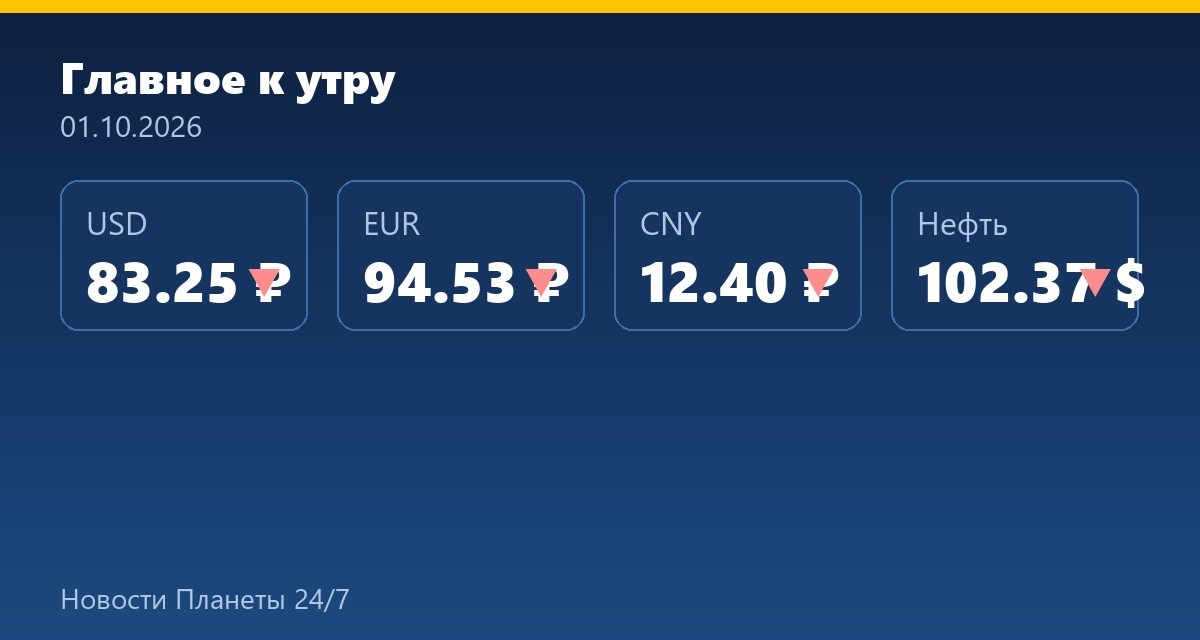
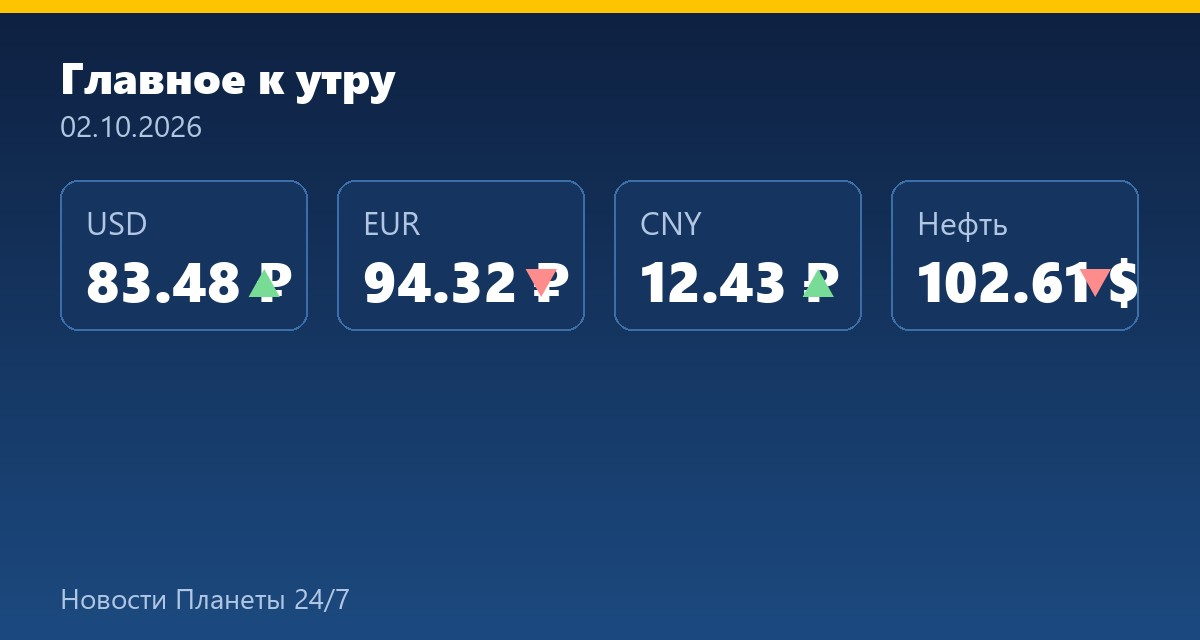
Обновление сайта: 62 файлов

diff --git a/p/49.html b/p/49.html
@@ -1,0 +1,43 @@
+<!DOCTYPE html>
+<html lang="ru">
+<head>
+<meta charset="utf-8">
+<meta name="viewport" content="width=device-width, initial-scale=1">
+<title>Песков заявил об открытости России к диалогу по безопасности в Черном море</title>
+<meta name="description" content="Политика: Песков заявил об открытости России к диалогу по безопасности в Черном море">
+<link rel="canonical" href="https://Raezed.github.io/news/p/49.html">
+<meta property="og:type" content="article">
+<meta property="og:site_name" content="Новости Планеты 24/7">
+<meta property="og:title" content="Песков заявил об открытости России к диалогу по безопасности в Черном море">
+<meta property="og:description" content="Политика: Песков заявил об открытости России к диалогу по безопасности в Черном море">
+<meta property="og:url" content="https://Raezed.github.io/news/p/49.html">
+<meta property="og:image" content="https://Raezed.github.io/news/img/share.jpg">
+<meta name="twitter:image" content="https://Raezed.github.io/news/img/share.jpg">
+<meta name="twitter:card" content="summary_large_image">
+<meta name="twitter:title" content="Песков заявил об открытости России к диалогу по безопасности в Черном море">
+<meta name="twitter:description" content="Политика: Песков заявил об открытости России к диалогу по безопасности в Черном море">
+<link rel="stylesheet" href="/news/style.css">
+<link rel="alternate" type="application/rss+xml" title="Новости Планеты 24/7" href="/news/feed.xml">
+<script type="application/ld+json">{"@context": "https://schema.org", "@type": "NewsArticle", "headline": "Песков заявил об открытости России к диалогу по безопасности в Черном море", "description": "Политика: Песков заявил об открытости России к диалогу по безопасности в Черном море", "inLanguage": "ru", "url": "https://Raezed.github.io/news/p/49.html", "publisher": {"@type": "Organization", "name": "Новости Планеты 24/7"}}</script>
+</head>
+<body>
+<header><div class="wrap">
+<div class="tag">Новости, объяснённые по-человечески</div>
+<h1>Новости Планеты 24/7</h1>
+<p class="sub">Сообщаем не только что случилось, но и что это меняет лично для вас: цены, работа, выплаты, поездки, документы.</p>
+<a class="cta" href="https://t.me/WestiNewMir24">Подписаться в Telegram</a>
+</div></header>
+<main class="wrap">
+<article>
+<div class="meta">2026-10-02 · <span class="topic">Политика</span> · Коммерсантъ</div>
+<h2 style="margin:0 0 10px">Песков заявил об открытости России к диалогу по безопасности в Черном море</h2>
+<div class="text"><p>Россия открыта для диалога по обеспечению безопасности в Черном море со всеми странами, заявил «Интерфаксу» пресс-секретарь президента Дмитрий Песков. Однако, по его словам, конкретные двусторонние соглашения пока не обсуждаются.</p><p>🔗 <a href="https://www.kommersant.ru/doc/9005220">Коммерсантъ</a></p><p>#Политика</p></div>
+<p><a href="https://www.kommersant.ru/doc/9005220">Читать первоисточник</a></p>
+<div class="share"><span>Поделиться:</span><a href="https://t.me/share/url?url=https%3A%2F%2FRaezed.github.io%2Fnews%2Fp%2F49.html&text=%D0%9F%D0%B5%D1%81%D0%BA%D0%BE%D0%B2%20%D0%B7%D0%B0%D1%8F%D0%B2%D0%B8%D0%BB%20%D0%BE%D0%B1%20%D0%BE%D1%82%D0%BA%D1%80%D1%8B%D1%82%D0%BE%D1%81%D1%82%D0%B8%20%D0%A0%D0%BE%D1%81%D1%81%D0%B8%D0%B8%20%D0%BA%20%D0%B4%D0%B8%D0%B0%D0%BB%D0%BE%D0%B3%D1%83%20%D0%BF%D0%BE%20%D0%B1%D0%B5%D0%B7%D0%BE%D0%BF%D0%B0%D1%81%D0%BD%D0%BE%D1%81%D1%82%D0%B8%20%D0%B2%20%D0%A7%D0%B5%D1%80%D0%BD%D0%BE%D0%BC%20%D0%BC%D0%BE%D1%80%D0%B5" target="_blank" rel="noopener">Telegram</a><a href="https://vk.com/share.php?url=https%3A%2F%2FRaezed.github.io%2Fnews%2Fp%2F49.html&title=%D0%9F%D0%B5%D1%81%D0%BA%D0%BE%D0%B2%20%D0%B7%D0%B0%D1%8F%D0%B2%D0%B8%D0%BB%20%D0%BE%D0%B1%20%D0%BE%D1%82%D0%BA%D1%80%D1%8B%D1%82%D0%BE%D1%81%D1%82%D0%B8%20%D0%A0%D0%BE%D1%81%D1%81%D0%B8%D0%B8%20%D0%BA%20%D0%B4%D0%B8%D0%B0%D0%BB%D0%BE%D0%B3%D1%83%20%D0%BF%D0%BE%20%D0%B1%D0%B5%D0%B7%D0%BE%D0%BF%D0%B0%D1%81%D0%BD%D0%BE%D1%81%D1%82%D0%B8%20%D0%B2%20%D0%A7%D0%B5%D1%80%D0%BD%D0%BE%D0%BC%20%D0%BC%D0%BE%D1%80%D0%B5" target="_blank" rel="noopener">ВКонтакте</a><a href="https://connect.ok.ru/offer?url=https%3A%2F%2FRaezed.github.io%2Fnews%2Fp%2F49.html&title=%D0%9F%D0%B5%D1%81%D0%BA%D0%BE%D0%B2%20%D0%B7%D0%B0%D1%8F%D0%B2%D0%B8%D0%BB%20%D0%BE%D0%B1%20%D0%BE%D1%82%D0%BA%D1%80%D1%8B%D1%82%D0%BE%D1%81%D1%82%D0%B8%20%D0%A0%D0%BE%D1%81%D1%81%D0%B8%D0%B8%20%D0%BA%20%D0%B4%D0%B8%D0%B0%D0%BB%D0%BE%D0%B3%D1%83%20%D0%BF%D0%BE%20%D0%B1%D0%B5%D0%B7%D0%BE%D0%BF%D0%B0%D1%81%D0%BD%D0%BE%D1%81%D1%82%D0%B8%20%D0%B2%20%D0%A7%D0%B5%D1%80%D0%BD%D0%BE%D0%BC%20%D0%BC%D0%BE%D1%80%D0%B5" target="_blank" rel="noopener">Одноклассники</a><a href="https://api.whatsapp.com/send?text=%D0%9F%D0%B5%D1%81%D0%BA%D0%BE%D0%B2%20%D0%B7%D0%B0%D1%8F%D0%B2%D0%B8%D0%BB%20%D0%BE%D0%B1%20%D0%BE%D1%82%D0%BA%D1%80%D1%8B%D1%82%D0%BE%D1%81%D1%82%D0%B8%20%D0%A0%D0%BE%D1%81%D1%81%D0%B8%D0%B8%20%D0%BA%20%D0%B4%D0%B8%D0%B0%D0%BB%D0%BE%D0%B3%D1%83%20%D0%BF%D0%BE%20%D0%B1%D0%B5%D0%B7%D0%BE%D0%BF%D0%B0%D1%81%D0%BD%D0%BE%D1%81%D1%82%D0%B8%20%D0%B2%20%D0%A7%D0%B5%D1%80%D0%BD%D0%BE%D0%BC%20%D0%BC%D0%BE%D1%80%D0%B5%20https%3A%2F%2FRaezed.github.io%2Fnews%2Fp%2F49.html" target="_blank" rel="noopener">WhatsApp</a></div>
+<div class="subscribe"><b>Мы пишем так каждый день</b><p>Объясняем не только что случилось, но и что это меняет лично для вас: цены, работу, выплаты, поездки, документы.</p><a class="cta" href="https://t.me/WestiNewMir24">Подписаться в Telegram</a> <a class="cta ghost" href="https://t.me/WestiNewMir24/49">Обсудить этот пост</a></div>
+<p><a href="/news/">← Все новости</a></p>
+</article>
+</main>
+<footer>© 2026 Новости Планеты 24/7 · <a href="https://t.me/WestiNewMir24">Telegram-канал</a></footer>
+</body>
+</html>

diff --git a/p/51.html b/p/51.html
@@ -1,0 +1,43 @@
+<!DOCTYPE html>
+<html lang="ru">
+<head>
+<meta charset="utf-8">
+<meta name="viewport" content="width=device-width, initial-scale=1">
+<title>Кравцов назвал главный педагогический вызов при использовании ИИ в школах</title>
+<meta name="description" content="Экономика: Кравцов назвал главный педагогический вызов при использовании ИИ в школах">
+<link rel="canonical" href="https://Raezed.github.io/news/p/51.html">
+<meta property="og:type" content="article">
+<meta property="og:site_name" content="Новости Планеты 24/7">
+<meta property="og:title" content="Кравцов назвал главный педагогический вызов при использовании ИИ в школах">
+<meta property="og:description" content="Экономика: Кравцов назвал главный педагогический вызов при использовании ИИ в школах">
+<meta property="og:url" content="https://Raezed.github.io/news/p/51.html">
+<meta property="og:image" content="https://Raezed.github.io/news/img/share.jpg">
+<meta name="twitter:image" content="https://Raezed.github.io/news/img/share.jpg">
+<meta name="twitter:card" content="summary_large_image">
+<meta name="twitter:title" content="Кравцов назвал главный педагогический вызов при использовании ИИ в школах">
+<meta name="twitter:description" content="Экономика: Кравцов назвал главный педагогический вызов при использовании ИИ в школах">
+<link rel="stylesheet" href="/news/style.css">
+<link rel="alternate" type="application/rss+xml" title="Новости Планеты 24/7" href="/news/feed.xml">
+<script type="application/ld+json">{"@context": "https://schema.org", "@type": "NewsArticle", "headline": "Кравцов назвал главный педагогический вызов при использовании ИИ в школах", "description": "Экономика: Кравцов назвал главный педагогический вызов при использовании ИИ в школах", "inLanguage": "ru", "url": "https://Raezed.github.io/news/p/51.html", "publisher": {"@type": "Organization", "name": "Новости Планеты 24/7"}}</script>
+</head>
+<body>
+<header><div class="wrap">
+<div class="tag">Новости, объяснённые по-человечески</div>
+<h1>Новости Планеты 24/7</h1>
+<p class="sub">Сообщаем не только что случилось, но и что это меняет лично для вас: цены, работа, выплаты, поездки, документы.</p>
+<a class="cta" href="https://t.me/WestiNewMir24">Подписаться в Telegram</a>
+</div></header>
+<main class="wrap">
+<article>
+<div class="meta">2026-10-02 · <span class="topic">Экономика</span> · ТАСС</div>
+<h2 style="margin:0 0 10px">Кравцов назвал главный педагогический вызов при использовании ИИ в школах</h2>
+<div class="text"><p>Важно оценивать не только готовый ответ, но и то, как обучающийся рассуждает, проверяет информацию и обосновывает выводы, отметил министр просвещения</p><p>🔗 <a href="https://tass.ru/obschestvo/28177345">ТАСС</a></p><p>#Экономика</p></div>
+<p><a href="https://tass.ru/obschestvo/28177345">Читать первоисточник</a></p>
+<div class="share"><span>Поделиться:</span><a href="https://t.me/share/url?url=https%3A%2F%2FRaezed.github.io%2Fnews%2Fp%2F51.html&text=%D0%9A%D1%80%D0%B0%D0%B2%D1%86%D0%BE%D0%B2%20%D0%BD%D0%B0%D0%B7%D0%B2%D0%B0%D0%BB%20%D0%B3%D0%BB%D0%B0%D0%B2%D0%BD%D1%8B%D0%B9%20%D0%BF%D0%B5%D0%B4%D0%B0%D0%B3%D0%BE%D0%B3%D0%B8%D1%87%D0%B5%D1%81%D0%BA%D0%B8%D0%B9%20%D0%B2%D1%8B%D0%B7%D0%BE%D0%B2%20%D0%BF%D1%80%D0%B8%20%D0%B8%D1%81%D0%BF%D0%BE%D0%BB%D1%8C%D0%B7%D0%BE%D0%B2%D0%B0%D0%BD%D0%B8%D0%B8%20%D0%98%D0%98%20%D0%B2%20%D1%88%D0%BA%D0%BE%D0%BB%D0%B0%D1%85" target="_blank" rel="noopener">Telegram</a><a href="https://vk.com/share.php?url=https%3A%2F%2FRaezed.github.io%2Fnews%2Fp%2F51.html&title=%D0%9A%D1%80%D0%B0%D0%B2%D1%86%D0%BE%D0%B2%20%D0%BD%D0%B0%D0%B7%D0%B2%D0%B0%D0%BB%20%D0%B3%D0%BB%D0%B0%D0%B2%D0%BD%D1%8B%D0%B9%20%D0%BF%D0%B5%D0%B4%D0%B0%D0%B3%D0%BE%D0%B3%D0%B8%D1%87%D0%B5%D1%81%D0%BA%D0%B8%D0%B9%20%D0%B2%D1%8B%D0%B7%D0%BE%D0%B2%20%D0%BF%D1%80%D0%B8%20%D0%B8%D1%81%D0%BF%D0%BE%D0%BB%D1%8C%D0%B7%D0%BE%D0%B2%D0%B0%D0%BD%D0%B8%D0%B8%20%D0%98%D0%98%20%D0%B2%20%D1%88%D0%BA%D0%BE%D0%BB%D0%B0%D1%85" target="_blank" rel="noopener">ВКонтакте</a><a href="https://connect.ok.ru/offer?url=https%3A%2F%2FRaezed.github.io%2Fnews%2Fp%2F51.html&title=%D0%9A%D1%80%D0%B0%D0%B2%D1%86%D0%BE%D0%B2%20%D0%BD%D0%B0%D0%B7%D0%B2%D0%B0%D0%BB%20%D0%B3%D0%BB%D0%B0%D0%B2%D0%BD%D1%8B%D0%B9%20%D0%BF%D0%B5%D0%B4%D0%B0%D0%B3%D0%BE%D0%B3%D0%B8%D1%87%D0%B5%D1%81%D0%BA%D0%B8%D0%B9%20%D0%B2%D1%8B%D0%B7%D0%BE%D0%B2%20%D0%BF%D1%80%D0%B8%20%D0%B8%D1%81%D0%BF%D0%BE%D0%BB%D1%8C%D0%B7%D0%BE%D0%B2%D0%B0%D0%BD%D0%B8%D0%B8%20%D0%98%D0%98%20%D0%B2%20%D1%88%D0%BA%D0%BE%D0%BB%D0%B0%D1%85" target="_blank" rel="noopener">Одноклассники</a><a href="https://api.whatsapp.com/send?text=%D0%9A%D1%80%D0%B0%D0%B2%D1%86%D0%BE%D0%B2%20%D0%BD%D0%B0%D0%B7%D0%B2%D0%B0%D0%BB%20%D0%B3%D0%BB%D0%B0%D0%B2%D0%BD%D1%8B%D0%B9%20%D0%BF%D0%B5%D0%B4%D0%B0%D0%B3%D0%BE%D0%B3%D0%B8%D1%87%D0%B5%D1%81%D0%BA%D0%B8%D0%B9%20%D0%B2%D1%8B%D0%B7%D0%BE%D0%B2%20%D0%BF%D1%80%D0%B8%20%D0%B8%D1%81%D0%BF%D0%BE%D0%BB%D1%8C%D0%B7%D0%BE%D0%B2%D0%B0%D0%BD%D0%B8%D0%B8%20%D0%98%D0%98%20%D0%B2%20%D1%88%D0%BA%D0%BE%D0%BB%D0%B0%D1%85%20https%3A%2F%2FRaezed.github.io%2Fnews%2Fp%2F51.html" target="_blank" rel="noopener">WhatsApp</a></div>
+<div class="subscribe"><b>Мы пишем так каждый день</b><p>Объясняем не только что случилось, но и что это меняет лично для вас: цены, работу, выплаты, поездки, документы.</p><a class="cta" href="https://t.me/WestiNewMir24">Подписаться в Telegram</a> <a class="cta ghost" href="https://t.me/WestiNewMir24/51">Обсудить этот пост</a></div>
+<p><a href="/news/">← Все новости</a></p>
+</article>
+</main>
+<footer>© 2026 Новости Планеты 24/7 · <a href="https://t.me/WestiNewMir24">Telegram-канал</a></footer>
+</body>
+</html>

diff --git a/p/50.html b/p/50.html
@@ -1,0 +1,43 @@
+<!DOCTYPE html>
+<html lang="ru">
+<head>
+<meta charset="utf-8">
+<meta name="viewport" content="width=device-width, initial-scale=1">
+<title>За день над Россией сбили более 200 беспилотников</title>
+<meta name="description" content="Мир: За день над Россией сбили более 200 беспилотников">
+<link rel="canonical" href="https://Raezed.github.io/news/p/50.html">
+<meta property="og:type" content="article">
+<meta property="og:site_name" content="Новости Планеты 24/7">
+<meta property="og:title" content="За день над Россией сбили более 200 беспилотников">
+<meta property="og:description" content="Мир: За день над Россией сбили более 200 беспилотников">
+<meta property="og:url" content="https://Raezed.github.io/news/p/50.html">
+<meta property="og:image" content="https://Raezed.github.io/news/img/share.jpg">
+<meta name="twitter:image" content="https://Raezed.github.io/news/img/share.jpg">
+<meta name="twitter:card" content="summary_large_image">
+<meta name="twitter:title" content="За день над Россией сбили более 200 беспилотников">
+<meta name="twitter:description" content="Мир: За день над Россией сбили более 200 беспилотников">
+<link rel="stylesheet" href="/news/style.css">
+<link rel="alternate" type="application/rss+xml" title="Новости Планеты 24/7" href="/news/feed.xml">
+<script type="application/ld+json">{"@context": "https://schema.org", "@type": "NewsArticle", "headline": "За день над Россией сбили более 200 беспилотников", "description": "Мир: За день над Россией сбили более 200 беспилотников", "inLanguage": "ru", "url": "https://Raezed.github.io/news/p/50.html", "publisher": {"@type": "Organization", "name": "Новости Планеты 24/7"}}</script>
+</head>
+<body>
+<header><div class="wrap">
+<div class="tag">Новости, объяснённые по-человечески</div>
+<h1>Новости Планеты 24/7</h1>
+<p class="sub">Сообщаем не только что случилось, но и что это меняет лично для вас: цены, работа, выплаты, поездки, документы.</p>
+<a class="cta" href="https://t.me/WestiNewMir24">Подписаться в Telegram</a>
+</div></header>
+<main class="wrap">
+<article>
+<div class="meta">2026-10-02 · <span class="topic">Мир</span> · Коммерсантъ</div>
+<h2 style="margin:0 0 10px">За день над Россией сбили более 200 беспилотников</h2>
+<div class="text"><p>Силы ПВО уничтожили 209 беспилотников вооруженных сил Украины над территорией России с 8:00 до 20:00 мск. Об этом сообщила пресс-служба ведомства.</p><p>🔗 <a href="https://www.kommersant.ru/doc/9005221">Коммерсантъ</a></p><p>#Мир</p></div>
+<p><a href="https://www.kommersant.ru/doc/9005221">Читать первоисточник</a></p>
+<div class="share"><span>Поделиться:</span><a href="https://t.me/share/url?url=https%3A%2F%2FRaezed.github.io%2Fnews%2Fp%2F50.html&text=%D0%97%D0%B0%20%D0%B4%D0%B5%D0%BD%D1%8C%20%D0%BD%D0%B0%D0%B4%20%D0%A0%D0%BE%D1%81%D1%81%D0%B8%D0%B5%D0%B9%20%D1%81%D0%B1%D0%B8%D0%BB%D0%B8%20%D0%B1%D0%BE%D0%BB%D0%B5%D0%B5%20200%20%D0%B1%D0%B5%D1%81%D0%BF%D0%B8%D0%BB%D0%BE%D1%82%D0%BD%D0%B8%D0%BA%D0%BE%D0%B2" target="_blank" rel="noopener">Telegram</a><a href="https://vk.com/share.php?url=https%3A%2F%2FRaezed.github.io%2Fnews%2Fp%2F50.html&title=%D0%97%D0%B0%20%D0%B4%D0%B5%D0%BD%D1%8C%20%D0%BD%D0%B0%D0%B4%20%D0%A0%D0%BE%D1%81%D1%81%D0%B8%D0%B5%D0%B9%20%D1%81%D0%B1%D0%B8%D0%BB%D0%B8%20%D0%B1%D0%BE%D0%BB%D0%B5%D0%B5%20200%20%D0%B1%D0%B5%D1%81%D0%BF%D0%B8%D0%BB%D0%BE%D1%82%D0%BD%D0%B8%D0%BA%D0%BE%D0%B2" target="_blank" rel="noopener">ВКонтакте</a><a href="https://connect.ok.ru/offer?url=https%3A%2F%2FRaezed.github.io%2Fnews%2Fp%2F50.html&title=%D0%97%D0%B0%20%D0%B4%D0%B5%D0%BD%D1%8C%20%D0%BD%D0%B0%D0%B4%20%D0%A0%D0%BE%D1%81%D1%81%D0%B8%D0%B5%D0%B9%20%D1%81%D0%B1%D0%B8%D0%BB%D0%B8%20%D0%B1%D0%BE%D0%BB%D0%B5%D0%B5%20200%20%D0%B1%D0%B5%D1%81%D0%BF%D0%B8%D0%BB%D0%BE%D1%82%D0%BD%D0%B8%D0%BA%D0%BE%D0%B2" target="_blank" rel="noopener">Одноклассники</a><a href="https://api.whatsapp.com/send?text=%D0%97%D0%B0%20%D0%B4%D0%B5%D0%BD%D1%8C%20%D0%BD%D0%B0%D0%B4%20%D0%A0%D0%BE%D1%81%D1%81%D0%B8%D0%B5%D0%B9%20%D1%81%D0%B1%D0%B8%D0%BB%D0%B8%20%D0%B1%D0%BE%D0%BB%D0%B5%D0%B5%20200%20%D0%B1%D0%B5%D1%81%D0%BF%D0%B8%D0%BB%D0%BE%D1%82%D0%BD%D0%B8%D0%BA%D0%BE%D0%B2%20https%3A%2F%2FRaezed.github.io%2Fnews%2Fp%2F50.html" target="_blank" rel="noopener">WhatsApp</a></div>
+<div class="subscribe"><b>Мы пишем так каждый день</b><p>Объясняем не только что случилось, но и что это меняет лично для вас: цены, работу, выплаты, поездки, документы.</p><a class="cta" href="https://t.me/WestiNewMir24">Подписаться в Telegram</a> <a class="cta ghost" href="https://t.me/WestiNewMir24/50">Обсудить этот пост</a></div>
+<p><a href="/news/">← Все новости</a></p>
+</article>
+</main>
+<footer>© 2026 Новости Планеты 24/7 · <a href="https://t.me/WestiNewMir24">Telegram-канал</a></footer>
+</body>
+</html>

diff --git a/index.html b/index.html
@@ -29,6 +29,9 @@
 </div></header>
 <main class="wrap">
 <h2>Последние новости</h2>
+<article><div class="meta">2026-10-02 · <span class="topic">Экономика</span></div><h3><a href="/news/p/51.html">Кравцов назвал главный педагогический вызов при использовании ИИ в школах</a></h3><p class="why"><a href="/news/p/51.html">Читать →</a></p></article>
+<article><div class="meta">2026-10-02 · <span class="topic">Мир</span></div><h3><a href="/news/p/50.html">За день над Россией сбили более 200 беспилотников</a></h3><p class="why"><a href="/news/p/50.html">Читать →</a></p></article>
+<article><div class="meta">2026-10-02 · <span class="topic">Политика</span></div><h3><a href="/news/p/49.html">Песков заявил об открытости России к диалогу по безопасности в Черном море</a></h3><p class="why"><a href="/news/p/49.html">Читать →</a></p></article>
 <article><div class="meta">2026-09-29 · <span class="topic">Экономика</span></div><h3><a href="/news/p/48.html">Инвестфонды пережили разовый отток средств на новостях о новых налогах</a></h3><p class="why"><a href="/news/p/48.html">Читать →</a></p></article>
 <article><div class="meta">2026-09-29 · <span class="topic">Наука</span></div><h3><a href="/news/p/47.html">Астрофизик рассказал, сколько метеоров можно увидеть во время звездопада</a></h3><p class="why"><a href="/news/p/47.html">Читать →</a></p></article>
 <article><div class="meta">2026-09-29 · <span class="topic">Наука</span></div><h3><a href="/news/p/46.html">Российские химики получили прозрачную нанокерамику для мониторинга живых тканей</a></h3><p class="why"><a href="/news/p/46.html">Читать →</a></p></article>
